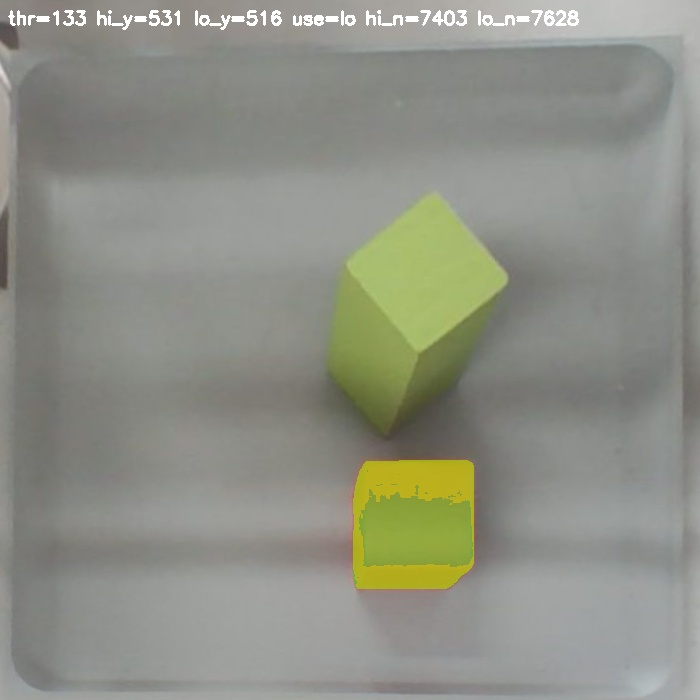
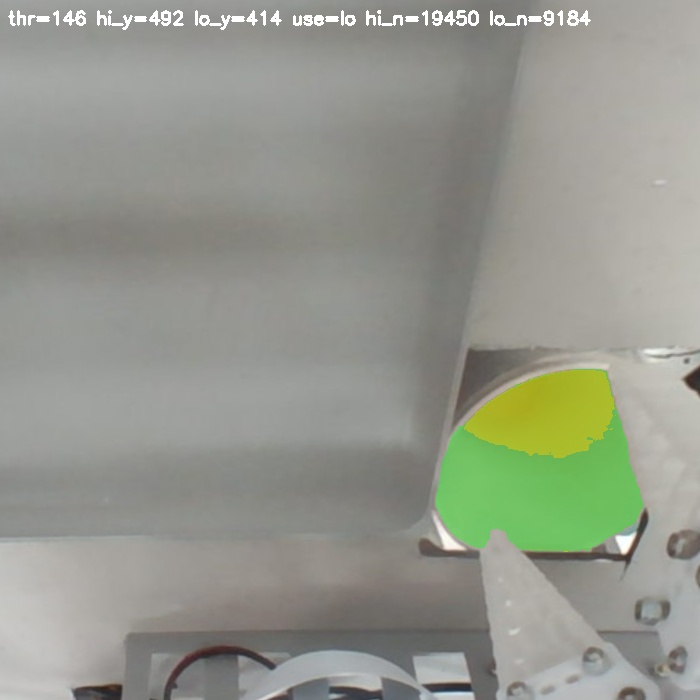
feat(vision): 千问改为手动复核按钮（SAM 占显存，运行时自动第二意见会 OOM）；加托盘外目标过滤

diff --git a/01-交付包/vision/gui.py b/01-交付包/vision/gui.py
@@ -67,6 +67,7 @@ class Stream:
         except Exception:                    # noqa: BLE001
             pass
 
+
     def start(self):
         threading.Thread(target=self.run, daemon=True).start()
 
@@ -189,6 +190,69 @@ class View:
 
 
 class App:
+    def _vlm_crop_now(self):
+        """取当前目标区域（没有目标就取整幅校正图）给千问看。"""
+        tf = self.tf
+        if tf is None or len(getattr(self, 'points', [])) != 4:
+            return None
+        s = 700
+        src = np.array(self.points, dtype=np.float32)
+        dst = np.array([[0, 0], [s, 0], [s, s], [0, s]], dtype=np.float32)
+        H = cv2.getPerspectiveTransform(src, dst)
+        warp = cv2.warpPerspective(tf, H, (s, s))
+        crop = None
+        try:
+            items = getattr(self, 'last_items', None) or []
+            if items:
+                x, y, w, h = items[0].get('bbox_warped') or (0, 0, 0, 0)
+                if w > 10 and h > 10:
+                    pad = int(max(w, h) * 0.25)
+                    x0, y0 = max(0, x - pad), max(0, y - pad)
+                    x1, y1 = min(s, x + w + pad), min(s, y + h + pad)
+                    crop = warp[y0:y1, x0:x1]
+        except Exception:                     # noqa: BLE001
+            crop = None
+        return crop if crop is not None and crop.size else warp
+
+    def on_vlm_check(self):
+        """手动让本地千问看一眼当前画面（用完即卸，避免和 SAM 抢显存）。"""
+        try:
+            import local_vlm as _vlm
+        except Exception as exc:              # noqa: BLE001
+            messagebox.showerror('千问不可用', str(exc))
+            return
+        if not _vlm.available():
+            messagebox.showerror('千问不可用', 'Ollama 没在跑（127.0.0.1:11434）')
+            return
+        crop = self._vlm_crop_now()
+        if crop is None:
+            messagebox.showinfo('千问复核', '先「打开双画面」，让画面里有物块')
+            return
+        self.note('千问复核中（首次加载约 1 分钟，之后 ~2–3 s）…')
+
+        def _work():
+            r = _vlm.ask_shape(crop, timeout=180.0)
+
+            def _done():
+                if not r or not r.get('shape'):
+                    self.note('千问复核失败（超时或解析失败）')
+                    return
+                msg = '千问：%s conf=%.2f %dms %s' % (
+                    r['shape'], r.get('conf', 0), r.get('ms', 0), (r.get('reason') or '')[:60])
+                self.note(msg)
+                try:
+                    messagebox.showinfo('千问复核', msg)
+                except Exception:             # noqa: BLE001
+                    pass
+
+            try:
+                self.r.after(0, _done)
+            except Exception:                 # noqa: BLE001
+                pass
+
+        import threading as _th
+        _th.Thread(target=_work, daemon=True).start()
+
     def __init__(self, r, embedded=False, ctrl=None, with_ctrl=True):
         self.r = r
         self.embedded = bool(embedded)
@@ -324,6 +388,7 @@ class App:
                    command=lambda: self.start_points('side')).pack(side='left', padx=3)
         ttk.Button(bot, text='清除定位', command=self.clear).pack(side='left', padx=3)
         ttk.Button(bot, text='采集空托盘', command=self.capture_empty).pack(side='left', padx=3)
+        ttk.Button(bot, text='千问复核', command=self.on_vlm_check).pack(side='left', padx=3)
         ttk.Button(bot, text='交换主副摄', command=self.swap_cams).pack(side='left', padx=3)
         self.adv_var = tk.BooleanVar(value=False)
         ttk.Checkbutton(bot, text='高级', variable=self.adv_var,
@@ -1126,8 +1191,24 @@ class App:
         masks = self.segmenter.segment(warp, bg, self.cfg)
         t2 = time.perf_counter()
         out = []
+        # 目标过滤：托盘外的杯子/夹爪常被 SAM 当成“物块”。
+        # 物块在同尺寸托盘里最大也就 ~4.8 万像素（40 mm 级长方体），杯子/夹爪更大或贴边。
+        tf = self.cfg.get('target_filter') or {}
+        a_min = int(tf.get('area_min', 2000))
+        a_max = int(tf.get('area_max', 48000))
+        edge = int(tf.get('edge_px', 3))
+        dropped = 0
         for m in masks:
             x, y, w, h = m['bbox']
+            area = int(m.get('area_px') or 0)
+            if area < a_min or area > a_max:
+                dropped += 1
+                continue
+            if x <= edge or y <= edge or x + w >= s - edge or y + h >= s - edge:
+                # 贴边目标：物块不会正好贴着托盘边框被切掉，多半是托盘外的物体
+                if tf.get('drop_edge', True):
+                    dropped += 1
+                    continue
             corners = np.float32([[[x, y], [x + w, y], [x + w, y + h], [x, y + h]]])
             back = cv2.perspectiveTransform(corners, inv)[0]
             bx, by, bw, bh = cv2.boundingRect(back.astype(np.float32))
@@ -1143,6 +1224,8 @@ class App:
                         'center_orig': (float(ctr[0]), float(ctr[1])),
                         'center_tray': m['center_tray'],
                         'area_px': m['area_px'], 'confidence': m['confidence']})
+        if dropped:
+            self.note('过滤掉 %d 个疑似托盘外目标（过大或贴边）' % dropped)
         # 先给每个目标量一次颜色（两路都量），融合时用它判断两路是否指向同一物体
         for it in out:
             try:

diff --git a/01-交付包/vision/auto_segment.py b/01-交付包/vision/auto_segment.py
@@ -11,6 +11,8 @@ Put sam_b.pt (or sam2_b.pt) in new_eye/models/.
 from pathlib import Path
 import os
 import cv2
+import os
+
 import numpy as np
 
 ROOT = Path(__file__).resolve().parent
@@ -156,7 +158,9 @@ class AutoSegmenter:
             return []
         # 注意：ultralytics 8.3 的 SAM.predict() 不接受 multimask_output（它只属于内部
         # prompt_inference），传入会被 get_cfg() 当成非法参数直接抛 SyntaxError。
-        result = self.model.predict(frame, points=pts, labels=[1] * len(pts), verbose=False)[0]
+        _dev = (cfg.get('device') if cfg else None) or os.environ.get('ROBOT_SAM_DEVICE') or 'cpu'
+        result = self.model.predict(frame, points=pts, labels=[1] * len(pts),
+                                   verbose=False, device=_dev)[0]
         if result.masks is None:
             return []
         masks = result.masks.data.cpu().numpy()
@@ -177,6 +181,15 @@ class AutoSegmenter:
             # 托盘/背景掩膜：贴边且面积大，直接丢弃（托盘本体就是最大的背景块）。
             if (x <= 3 or y <= 3 or x + bw >= w - 3 or y + bh >= h - 3) and area > h * w * .15:
                 continue
+            # 配置化的目标过滤：托盘外的杯子/夹爪常被当成“物块”。
+            _tf = cfg.get('target_filter') or {}
+            _amax = int(_tf.get('area_max') or 0)
+            if _amax and area > _amax:
+                continue
+            _edge = int(_tf.get('edge_px') or 0)
+            if _edge and _tf.get('drop_edge', True):
+                if x <= _edge or y <= _edge or x + bw >= w - _edge or y + bh >= h - _edge:
+                    continue
             # 掩膜必须确实落在候选前景上，否则就是空托盘/阴影被 SAM“补”出来的假目标。
             if fg[y:y + bh, x:x + bw].size == 0:
                 continue

diff --git a/01-交付包/vision/local_vlm.py b/01-交付包/vision/local_vlm.py
@@ -96,7 +96,10 @@ def ask_shape(img_bgr, candidates=None, timeout: float = 8.0, model: str = None)
             'stream': False,
             'format': 'json',
             'think': False,
-            'options': {'temperature': 0, 'num_predict': 220},
+            'keep_alive': os.environ.get('ROBOT_VLM_KEEP_ALIVE', '0'),
+            'options': {'temperature': 0, 'num_predict': 220,
+                        # 默认走 CPU：SAM 已占显存，4B 模型同时上 GPU 会 OOM
+                        'num_gpu': int(os.environ.get('ROBOT_VLM_GPU', '99'))},
         }
         req = urllib.request.Request(
             BASE + '/api/chat', data=json.dumps(body).encode('utf-8'),
